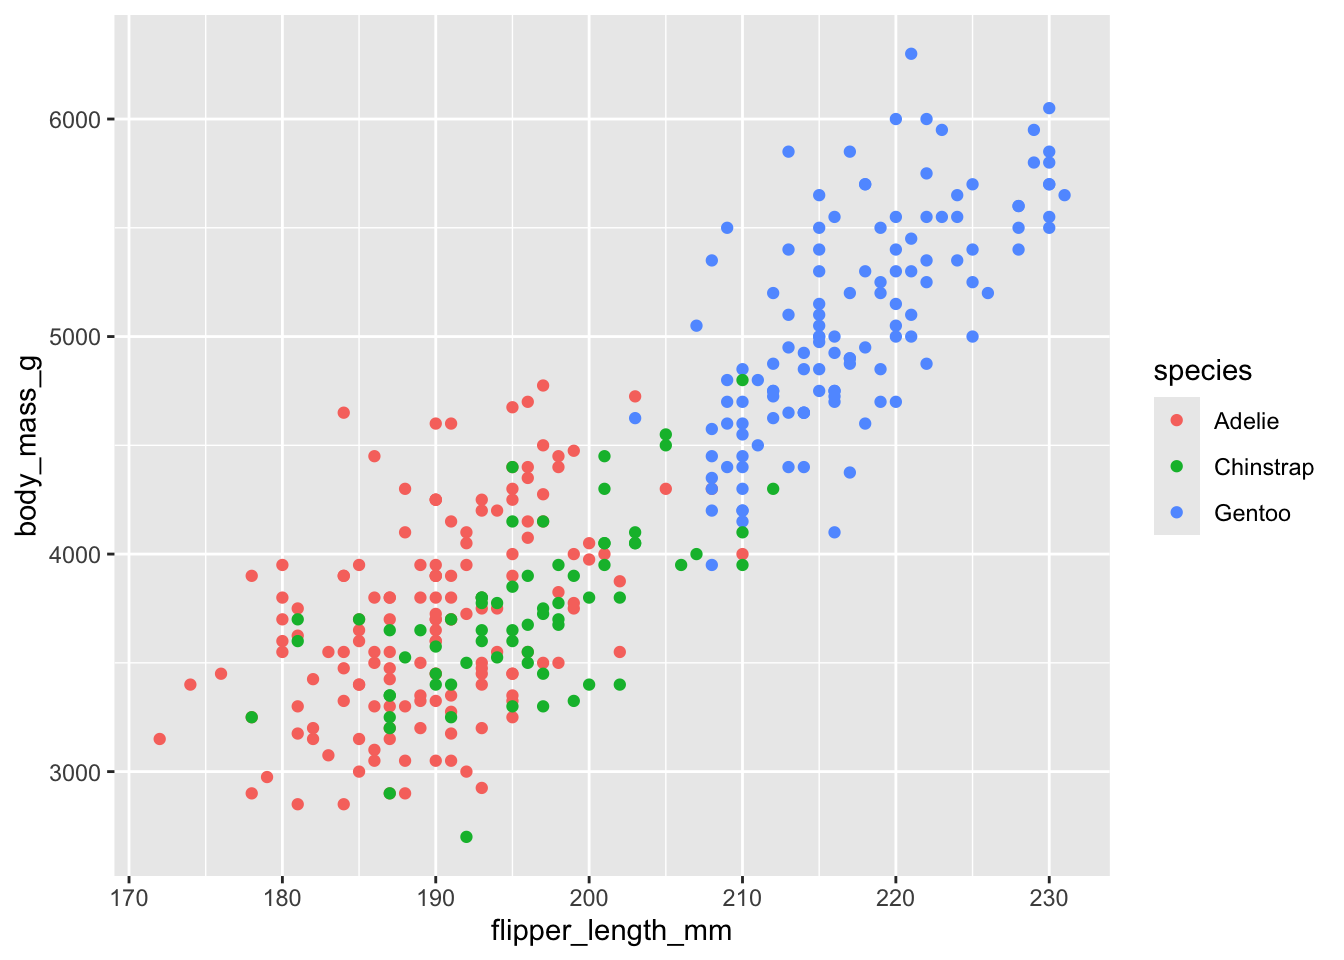
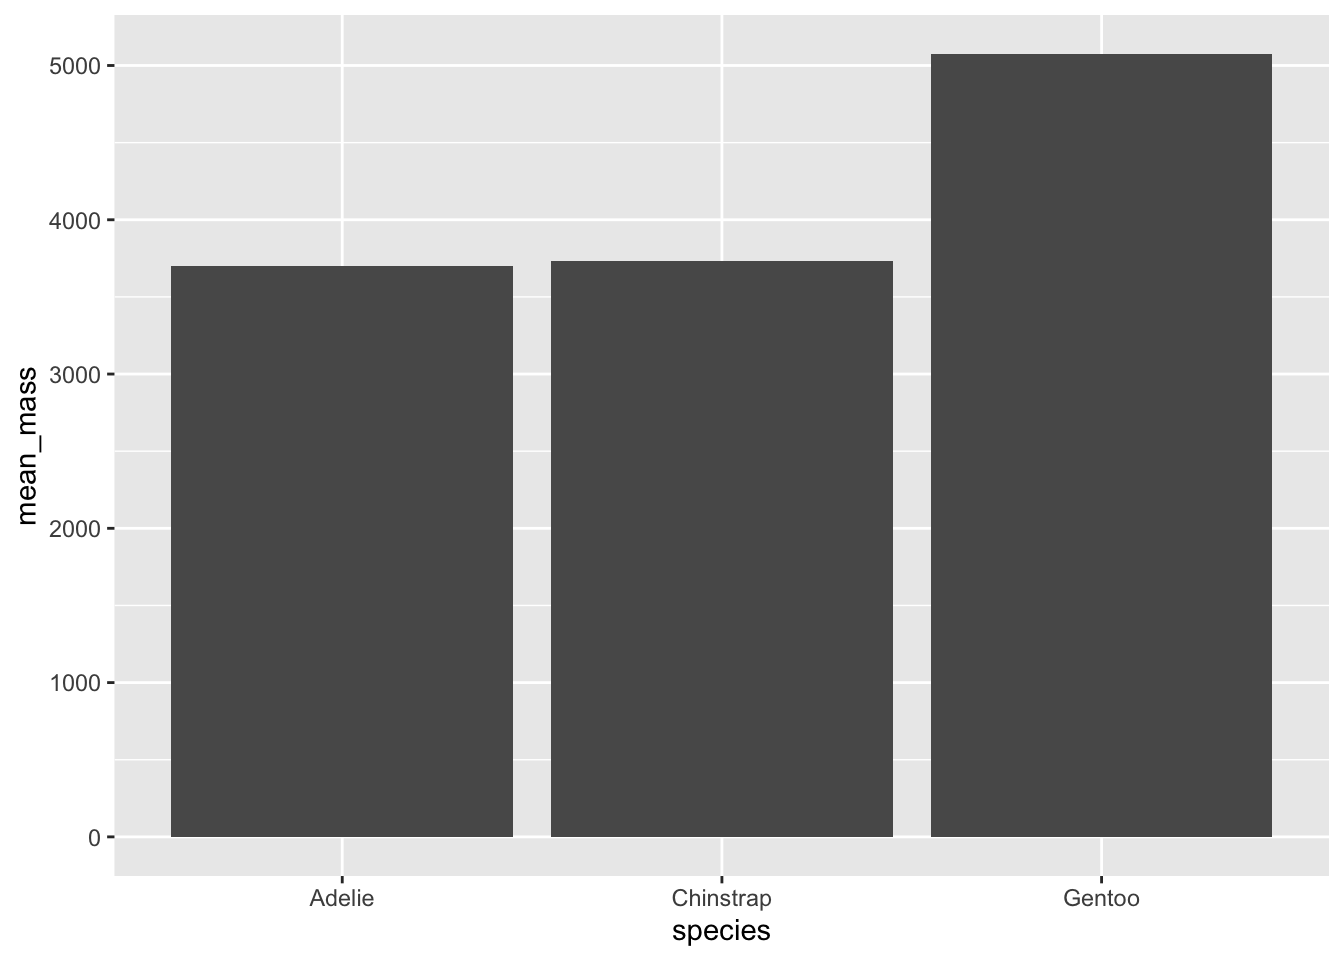
finished website, pushing to test cloning

diff --git a/docs/posts/python-analysis/python.html b/docs/posts/python-analysis/python.html
@@ -204,12 +204,12 @@ pre > code.sourceCode > span > a:first-child::before { text-decoration: underlin
 
 <section id="running-analysis-in-python" class="level2">
 <h2 class="anchored" data-anchor-id="running-analysis-in-python">Running Analysis in Python</h2>
-<div id="60300cc3" class="cell" data-execution_count="1">
+<div id="53da749e" class="cell" data-message="false" data-execution_count="1">
 <div class="code-copy-outer-scaffold"><div class="sourceCode cell-code" id="cb1"><pre class="sourceCode python code-with-copy"><code class="sourceCode python"><span id="cb1-1"><a href="#cb1-1" aria-hidden="true" tabindex="-1"></a><span class="im">from</span> palmerpenguins <span class="im">import</span> load_penguins</span>
 <span id="cb1-2"><a href="#cb1-2" aria-hidden="true" tabindex="-1"></a><span class="im">import</span> matplotlib.pyplot <span class="im">as</span> plt</span>
 <span id="cb1-3"><a href="#cb1-3" aria-hidden="true" tabindex="-1"></a><span class="im">import</span> numpy <span class="im">as</span> np</span></code></pre></div><button title="Copy to Clipboard" class="code-copy-button"><i class="bi"></i></button></div>
 </div>
-<div id="b957179f" class="cell" data-execution_count="2">
+<div id="1ed79720" class="cell" data-execution_count="2">
 <div class="code-copy-outer-scaffold"><div class="sourceCode cell-code" id="cb2"><pre class="sourceCode python code-with-copy"><code class="sourceCode python"><span id="cb2-1"><a href="#cb2-1" aria-hidden="true" tabindex="-1"></a>penguins <span class="op">=</span> load_penguins()</span>
 <span id="cb2-2"><a href="#cb2-2" aria-hidden="true" tabindex="-1"></a>penguins.head()</span></code></pre></div><button title="Copy to Clipboard" class="code-copy-button"><i class="bi"></i></button></div>
 <div class="cell-output cell-output-display" data-execution_count="2">
@@ -292,7 +292,7 @@ pre > code.sourceCode > span > a:first-child::before { text-decoration: underlin
 </div>
 </div>
 </div>
-<div id="3d06b2c1" class="cell" data-execution_count="3">
+<div id="48abc4bb" class="cell" data-execution_count="3">
 <div class="code-copy-outer-scaffold"><div class="sourceCode cell-code" id="cb3"><pre class="sourceCode python code-with-copy"><code class="sourceCode python"><span id="cb3-1"><a href="#cb3-1" aria-hidden="true" tabindex="-1"></a>penguins.groupby(<span class="st">"sex"</span>)[[<span class="st">"body_mass_g"</span>]].mean()</span></code></pre></div><button title="Copy to Clipboard" class="code-copy-button"><i class="bi"></i></button></div>
 <div class="cell-output cell-output-display" data-execution_count="3">
 <div>
@@ -322,16 +322,18 @@ pre > code.sourceCode > span > a:first-child::before { text-decoration: underlin
 </table>
 
 </div>
+<p>Figure 1: Body mass of penguins compared to sex.</p>
 </div>
 </div>
-<div id="ed0080cf" class="cell" data-execution_count="4">
+<div id="7fc0d9dd" class="cell" data-execution_count="4">
 <div class="code-copy-outer-scaffold"><div class="sourceCode cell-code" id="cb4"><pre class="sourceCode python code-with-copy"><code class="sourceCode python"><span id="cb4-1"><a href="#cb4-1" aria-hidden="true" tabindex="-1"></a>plt.scatter(penguins[<span class="st">"bill_length_mm"</span>], penguins[<span class="st">"body_mass_g"</span>])</span>
 <span id="cb4-2"><a href="#cb4-2" aria-hidden="true" tabindex="-1"></a>plt.xlabel(<span class="st">"Bill Length (mm)"</span>)</span>
 <span id="cb4-3"><a href="#cb4-3" aria-hidden="true" tabindex="-1"></a>plt.ylabel(<span class="st">"Body Mass (g)"</span>)</span></code></pre></div><button title="Copy to Clipboard" class="code-copy-button"><i class="bi"></i></button></div>
 <div class="cell-output cell-output-display">
-<div>
+<div class="quarto-figure quarto-figure-center">
 <figure class="figure">
 <p><img src="python_files/figure-html/cell-5-output-1.png" width="602" height="431" class="figure-img"></p>
+<figcaption>Figure 2: Body mass and bill length.</figcaption>
 </figure>
 </div>
 </div>
@@ -339,7 +341,7 @@ pre > code.sourceCode > span > a:first-child::before { text-decoration: underlin
 </section>
 <section id="conclusions" class="level2">
 <h2 class="anchored" data-anchor-id="conclusions">Conclusions</h2>
-<p>I loaded in the palmerpenguins dataset and first displayed the data frame as as a tabke. Afterwards I grouped the mean body mass by sex, which showed that the male penguins have a higher mean body mass. The last graph shows the scatter plot of bill length and body mass. The graph shows a positive trend between bill length and body mass.</p>
+<p>I loaded in the palmerpenguins dataset and first displayed the data frame as a table. Afterwards I grouped the mean body mass by sex, which showed that the male penguins have a higher mean body mass. The last graph shows the scatter plot of bill length and body mass. The graph shows a positive trend between bill length and body mass.</p>
 
 
 </section>

diff --git a/docs/blog.html b/docs/blog.html
@@ -209,10 +209,10 @@ window.Quarto = {
 
 <div class="quarto-listing quarto-listing-container-default" id="listing-listing">
 <div class="list quarto-listing-default">
-<div class="quarto-post image-right" data-index="0" data-listing-date-sort="1790146800000" data-listing-file-modified-sort="1790306160035" data-listing-date-modified-sort="NaN" data-listing-reading-time-sort="1" data-listing-word-count-sort="175">
+<div class="quarto-post image-right" data-index="0" data-listing-date-sort="1790146800000" data-listing-file-modified-sort="1790381753134" data-listing-date-modified-sort="NaN" data-listing-reading-time-sort="1" data-listing-word-count-sort="187">
 <div class="thumbnail"><a href="./posts/r-analysis/analysis.html" class="no-external">
 
-<p class="card-img-top"><img loading='lazy' src="posts/r-analysis/analysis_files/figure-html/fig-penguin-mass-1.png"  class="thumbnail-image card-img"/></p>
+<p class="card-img-top"><img loading='lazy' src="posts/r-analysis/analysis_files/figure-html/unnamed-chunk-3-1.png"  class="thumbnail-image card-img"/></p>
 
 </a></div>
 <div class="body">
@@ -234,7 +234,7 @@ Barry Siu
 </a>
 </div>
 </div>
-<div class="quarto-post image-right" data-index="1" data-listing-date-sort="1790146800000" data-listing-file-modified-sort="1790306655933" data-listing-date-modified-sort="NaN" data-listing-reading-time-sort="1" data-listing-word-count-sort="79">
+<div class="quarto-post image-right" data-index="1" data-listing-date-sort="1790146800000" data-listing-file-modified-sort="1790383064595" data-listing-date-modified-sort="NaN" data-listing-reading-time-sort="1" data-listing-word-count-sort="100">
 <div class="thumbnail"><a href="./posts/python-analysis/python.html" class="no-external">
 
 <p class="card-img-top"><img loading='lazy' src="posts/python-analysis/python_files/figure-html/cell-5-output-1.png"  class="thumbnail-image card-img"/></p>
@@ -245,7 +245,7 @@ Barry Siu
 <a href="./posts/python-analysis/python.html" class="no-external">Analysis in Python</a>
 </h3>
 <div class="delink listing-description"><a href="./posts/python-analysis/python.html" class="no-external">
-I loaded in the palmerpenguins dataset and first displayed the data frame as as a tabke. Afterwards I grouped the mean body mass by sex, which showed that the male penguins…
+Figure 1: Body mass of penguins compared to sex.
 </a></div>
 </div>
 <div class="metadata">

diff --git a/docs/posts/r-analysis/analysis.html b/docs/posts/r-analysis/analysis.html
@@ -230,14 +230,10 @@ pre > code.sourceCode > span > a:first-child::before { text-decoration: underlin
 <span id="cb4-6"><a href="#cb4-6" aria-hidden="true" tabindex="-1"></a>    <span class="fu">ggplot</span>(<span class="fu">aes</span>(<span class="at">x =</span> species, <span class="at">y =</span> mean_mass)) <span class="sc">+</span></span>
 <span id="cb4-7"><a href="#cb4-7" aria-hidden="true" tabindex="-1"></a>    <span class="fu">geom_col</span>()</span></code></pre></div><button title="Copy to Clipboard" class="code-copy-button"><i class="bi"></i></button></div>
 <div class="cell-output-display">
-<div id="fig-penguin-mass" class="quarto-float quarto-figure quarto-figure-center anchored">
-<figure class="quarto-float quarto-float-fig figure">
-<div aria-describedby="fig-penguin-mass-caption-0ceaefa1-69ba-4598-a22c-09a6ac19f8ca">
-<img src="analysis_files/figure-html/fig-penguin-mass-1.png" class="img-fluid figure-img" width="672">
-</div>
-<figcaption class="quarto-float-caption-bottom quarto-float-caption quarto-float-fig" id="fig-penguin-mass-caption-0ceaefa1-69ba-4598-a22c-09a6ac19f8ca">
-Figure&nbsp;1: Body mass of penguins by species.
-</figcaption>
+<div class="quarto-figure quarto-figure-center">
+<figure class="figure">
+<p><img src="analysis_files/figure-html/unnamed-chunk-3-1.png" class="img-fluid figure-img" width="672"></p>
+<figcaption>Figure 1: Body mass of penguins by species.</figcaption>
 </figure>
 </div>
 </div>
@@ -248,9 +244,10 @@ Figure&nbsp;1: Body mass of penguins by species.
 <span id="cb5-3"><a href="#cb5-3" aria-hidden="true" tabindex="-1"></a>                     <span class="at">color =</span> species)) <span class="sc">+</span></span>
 <span id="cb5-4"><a href="#cb5-4" aria-hidden="true" tabindex="-1"></a>  <span class="fu">geom_point</span>()</span></code></pre></div><button title="Copy to Clipboard" class="code-copy-button"><i class="bi"></i></button></div>
 <div class="cell-output-display">
-<div>
+<div class="quarto-figure quarto-figure-center">
 <figure class="figure">
-<p><img src="analysis_files/figure-html/unnamed-chunk-3-1.png" class="img-fluid figure-img" width="672"></p>
+<p><img src="analysis_files/figure-html/unnamed-chunk-4-1.png" class="img-fluid figure-img" width="672"></p>
+<figcaption>Figure 2: Body mass compared to flipper length of penguins</figcaption>
 </figure>
 </div>
 </div>
